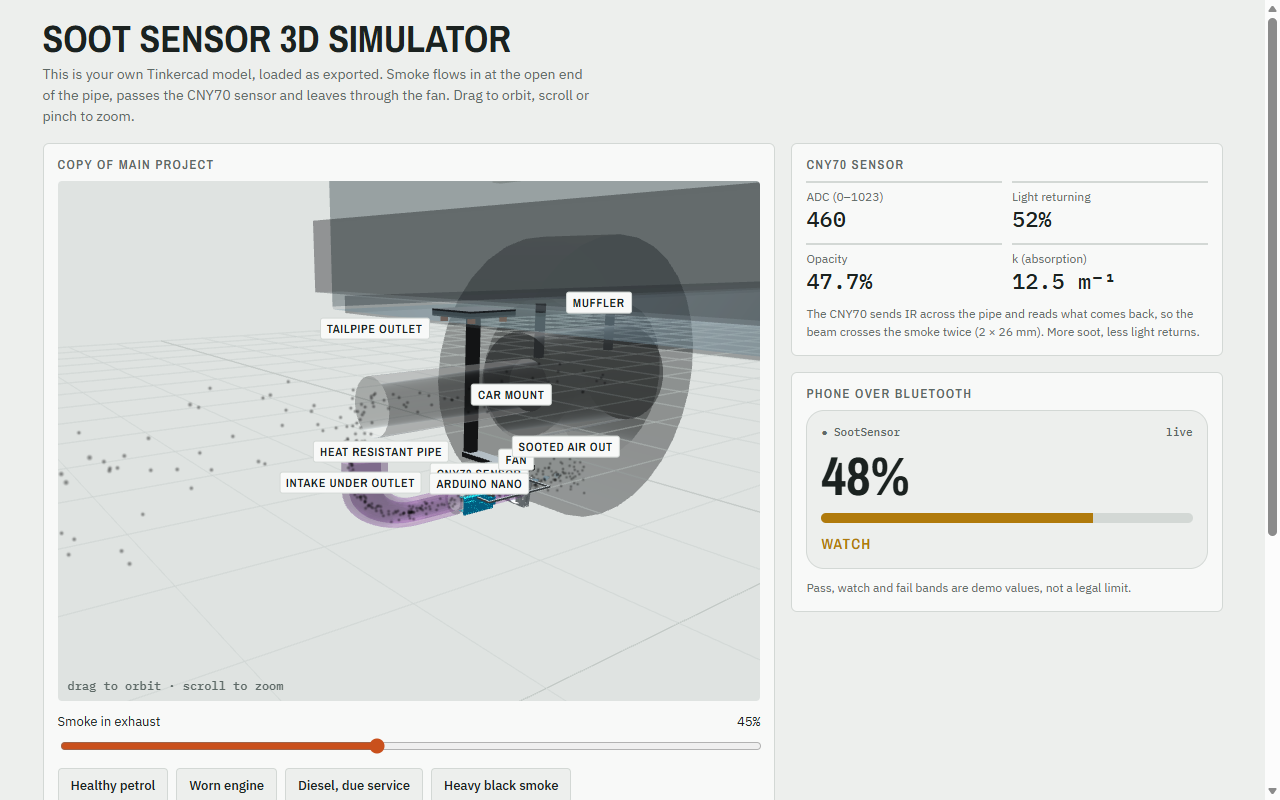
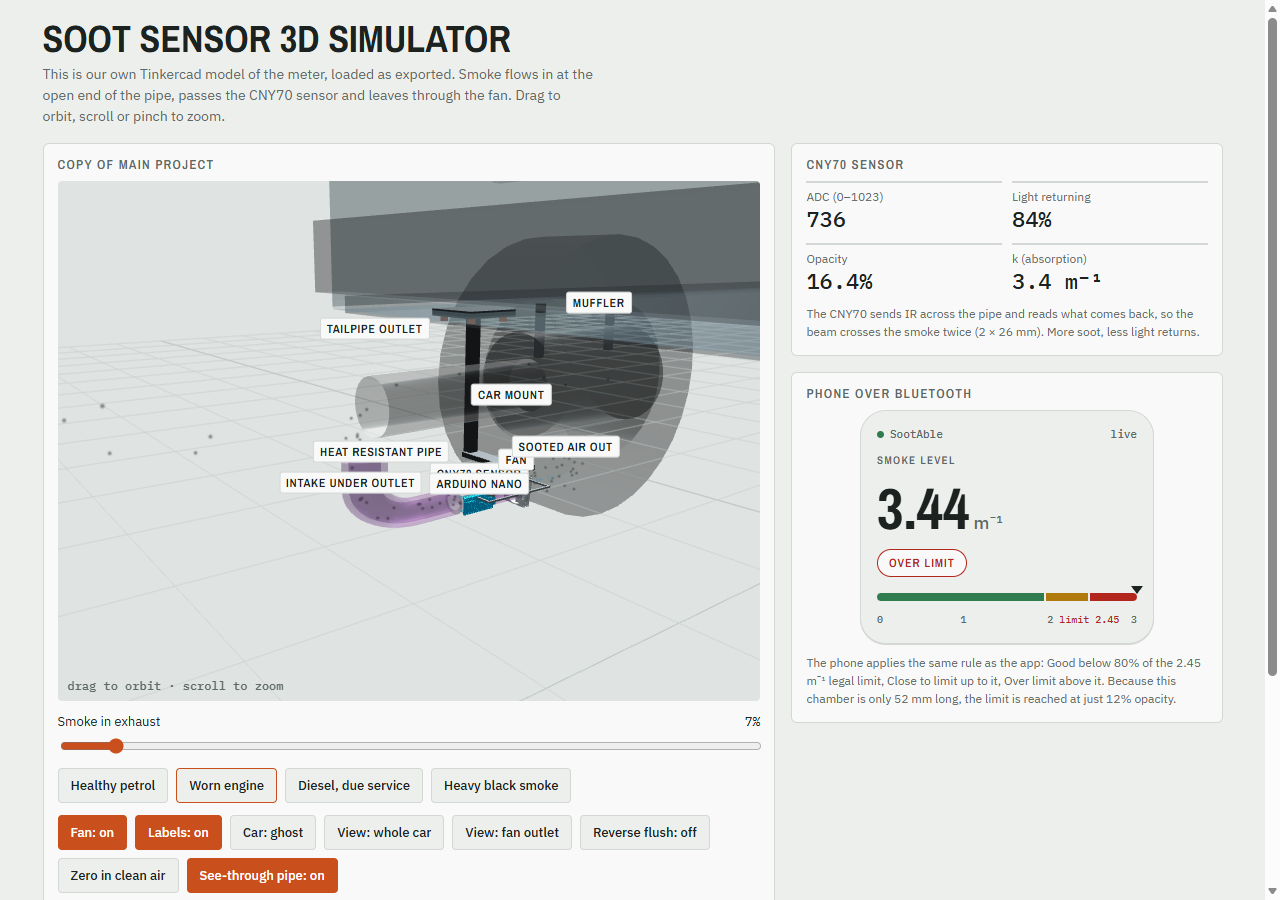
Hardware demo: phone panel uses the app's k and legal-limit logic

diff --git a/hardware/index.html b/hardware/index.html
@@ -36,11 +36,16 @@ button:focus-visible,input:focus-visible{outline:2px solid var(--accent);outline
 .stats{display:grid;grid-template-columns:repeat(2,minmax(0,1fr));gap:10px}
 .stat{border-top:2px solid var(--line);padding-top:6px}.stat span{display:block;font-size:12px;color:var(--mute)}
 .stat b{font:500 22px var(--f-mono);font-variant-numeric:tabular-nums}
-.phone{border:1px solid var(--line);border-radius:18px;padding:14px;background:var(--bg);display:grid;gap:10px}
-.bt{font:500 11px var(--f-mono);color:var(--mute);display:flex;justify-content:space-between}
-.big{font:700 54px/1 var(--f-display);font-variant-numeric:tabular-nums}
-.bar{height:10px;background:var(--line);border-radius:5px;overflow:hidden}.bar i{display:block;height:100%;width:0;background:var(--ok);transition:width .3s,background .3s}
-.verdict{font:600 15px var(--f-display);text-transform:uppercase;letter-spacing:.08em}
+.phone{width:min(100%,260px);margin:0 auto;border:1px solid var(--line);border-radius:26px;padding:16px 16px 18px;background:var(--bg);display:grid;gap:12px;box-shadow:0 1px 0 var(--line)}
+.bt{font:500 11px var(--f-mono);color:var(--mute);display:flex;justify-content:space-between;align-items:center}
+.bt i{display:inline-block;width:7px;height:7px;border-radius:50%;background:var(--ok);margin-right:6px}
+.plabel{font:600 11px var(--f-display);text-transform:uppercase;letter-spacing:.12em;color:var(--mute)}
+.big{font:700 58px/1 var(--f-display);font-variant-numeric:tabular-nums;display:flex;align-items:baseline;gap:4px}.big small{font:500 18px var(--f-body);color:var(--mute)}
+.verdict{justify-self:start;font:600 12px var(--f-display);text-transform:uppercase;letter-spacing:.08em;padding:5px 11px;border-radius:99px;background:var(--panel);border:1px solid currentColor}
+.scale{position:relative;height:8px;border-radius:4px;display:flex;gap:2px;margin-top:4px}
+.scale span{height:100%}.scale span:nth-child(1){flex:65.3;background:var(--ok);border-radius:4px 0 0 4px}.scale span:nth-child(2){flex:16.3;background:var(--warn)}.scale span:nth-child(3){flex:18.4;background:var(--bad);border-radius:0 4px 4px 0}
+.scale i{position:absolute;top:-7px;width:0;height:0;margin-left:-6px;border:6px solid transparent;border-top:8px solid var(--ink);border-bottom:0;transition:left .3s}
+.ticks{display:flex;font:500 10px var(--f-mono);color:var(--mute);position:relative;height:12px}.ticks span{position:absolute;transform:translateX(-50%);white-space:nowrap}
 .note{font-size:12px;color:var(--mute);line-height:1.5;margin:0}
 pre{margin:0;font:400 12px/1.6 var(--f-mono);background:var(--bg);border:1px solid var(--line);border-radius:4px;padding:10px;height:150px;overflow:hidden}
 </style>
@@ -54,7 +59,7 @@ pre{margin:0;font:400 12px/1.6 var(--f-mono);background:var(--bg);border:1px sol
   <div class="ctrl">
    <div class="row"><label for="smoke">Smoke in exhaust <output id="smokeOut"></output></label><input id="smoke" type="range" min="0" max="100" value="45"></div>
    <div class="btns" id="presets" role="group" aria-label="Exhaust condition presets">
-    <button data-v="2">Healthy petrol</button><button data-v="25">Worn engine</button><button data-v="55">Diesel, due service</button><button data-v="90">Heavy black smoke</button></div>
+    <button data-v="2">Healthy petrol</button><button data-v="7">Worn engine</button><button data-v="10">Diesel, due service</button><button data-v="90">Heavy black smoke</button></div>
    <div class="btns"><button id="fan" aria-pressed="true">Fan: on</button><button id="lab" aria-pressed="true">Labels: on</button><button id="carbtn">Car: ghost</button><button id="vw">View: whole car</button><button id="vfan">View: fan outlet</button><button id="flush" aria-pressed="false">Reverse flush: off</button><button id="zero">Zero in clean air</button><button id="cut" aria-pressed="true">See-through pipe: on</button></div>
   </div>
  </section>
@@ -65,8 +70,8 @@ pre{margin:0;font:400 12px/1.6 var(--f-mono);background:var(--bg);border:1px sol
     <div class="stat"><span>Opacity</span><b id="op">0%</b></div><div class="stat"><span>k (absorption)</span><b id="k">0.0 m⁻¹</b></div></div>
    <p class="note" style="margin-top:10px">The CNY70 sends IR across the pipe and reads what comes back, so the beam crosses the smoke twice (2 × 26 mm). More soot, less light returns.</p></section>
   <section class="card"><h2>Phone over Bluetooth</h2>
-   <div class="phone"><div class="bt"><span>● SootSensor</span><span>live</span></div><div class="big" id="pbig">0%</div><div class="bar"><i id="pbar"></i></div><div class="verdict" id="verdict">Pass</div></div>
-   <p class="note" style="margin-top:10px">Pass, watch and fail bands are demo values, not a legal limit.</p></section>
+   <div class="phone"><div class="bt"><span><i></i>SootAble</span><span>live</span></div><div class="plabel">Smoke level</div><div class="big"><span id="pbig">0</span><small>m⁻¹</small></div><div class="verdict" id="verdict">Good</div><div class="scale" aria-hidden="true"><span></span><span></span><span></span><i id="pmark" style="left:0"></i></div><div class="ticks" aria-hidden="true"><span style="left:0;transform:none">0</span><span style="left:33.3%">1</span><span style="left:66.7%">2</span><span style="left:81.7%;color:var(--bad)">limit 2.45</span><span style="left:100%;transform:translateX(-100%)">3</span></div></div>
+   <p class="note" style="margin-top:10px">The phone applies the same rule as the app: Good below 80% of the 2.45 m⁻¹ legal limit, Close to limit up to it, Over limit above it. Because this chamber is only 52 mm long, the limit is reached at just 12% opacity.</p></section>
  </aside>
 </div>
 <section class="card"><h2>Arduino Nano serial output</h2><pre id="log"></pre></section>
@@ -174,7 +179,7 @@ function place(){if(goal){var k=.08;az+=(goal.az-az)*k;el+=(goal.el-el)*k;dist+=
   cam.position.set(tgt.x+dist*Math.cos(el)*Math.sin(az),tgt.y+dist*Math.sin(el),tgt.z+dist*Math.cos(el)*Math.cos(az));cam.lookAt(tgt)}
 window.addEventListener('resize',function(){W=vp.clientWidth;H=vp.clientHeight;renderer.setSize(W,H);cam.aspect=W/H;cam.updateProjectionMatrix()});
 // sim
-var prevSmoke=45,flushing=false,flushStart=0,smoke=45,fan=true,conc=0,L=0.052,I0=880,zeroI=I0,labelsOn=true,cut=true;
+var LIMIT=2.45,prevSmoke=45,flushing=false,flushStart=0,smoke=45,fan=true,conc=0,L=0.052,I0=880,zeroI=I0,labelsOn=true,cut=true;
 function kTrue(c){return c/100*30}
 function setSmoke(v){smoke=+v;$('smoke').value=v;$('smokeOut').textContent=v+'%'}
 $('smoke').addEventListener('input',function(e){setSmoke(e.target.value)});
@@ -201,9 +206,9 @@ function endFlush(){flushing=false;var b=$('flush');b.setAttribute('aria-pressed
 var lines=[];function log(s){lines.push(s);if(lines.length>8)lines.shift();$('log').textContent=lines.join('\n')}
 function sample(){var raw=Math.round(reading()),r=Math.max(.001,raw/zeroI),op=Math.max(0,Math.min(100,(1-r)*100)),k=Math.max(0,-Math.log(Math.min(r,1))/L);
   $('adc').textContent=raw;$('light').textContent=Math.round(Math.min(r,1)*100)+'%';$('op').textContent=op.toFixed(1)+'%';$('k').textContent=k.toFixed(1)+' m⁻¹';
-  $('pbig').textContent=op.toFixed(0)+'%';$('pbar').style.width=Math.min(100,op*1.6)+'%';
-  var v,c;if(op<25){v='Pass';c='--ok'}else if(op<50){v='Watch';c='--warn'}else{v='Fail: service needed';c='--bad'}
-  $('pbar').style.background='var('+c+')';$('verdict').textContent=v;$('verdict').style.color='var('+c+')';
+  var kr=Math.round(k*100)/100;$('pbig').textContent=kr.toFixed(2);$('pmark').style.left=Math.min(100,k/3*100)+'%';
+  var v,c;if(kr<LIMIT*.8){v='Good';c='--ok'}else if(kr<=LIMIT){v='Close to limit';c='--warn'}else{v='Over limit';c='--bad'}
+  $('verdict').textContent=v;$('verdict').style.color='var('+c+')';
   log('opacity='+op.toFixed(1)+'% k='+k.toFixed(1)+' raw='+raw+(fan?'':' FAN-OFF'))}
 setSmoke(45);
 var reduce=matchMedia('(prefers-reduced-motion: reduce)').matches,t0=performance.now(),last=0,tmp=new THREE.Vector3(),sp=0;
